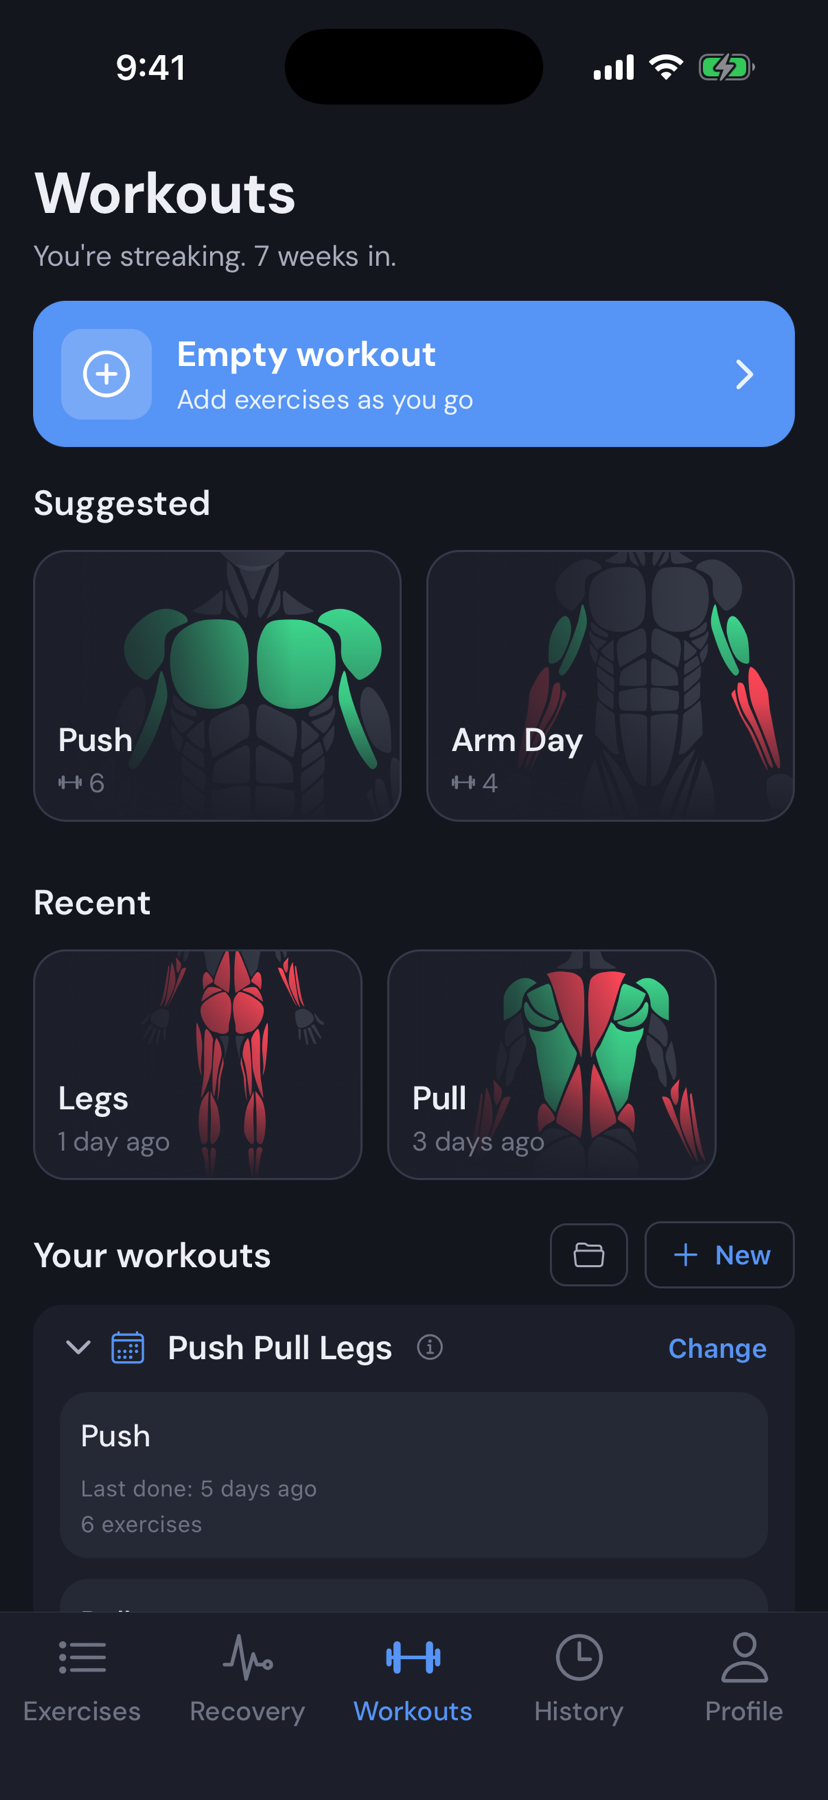
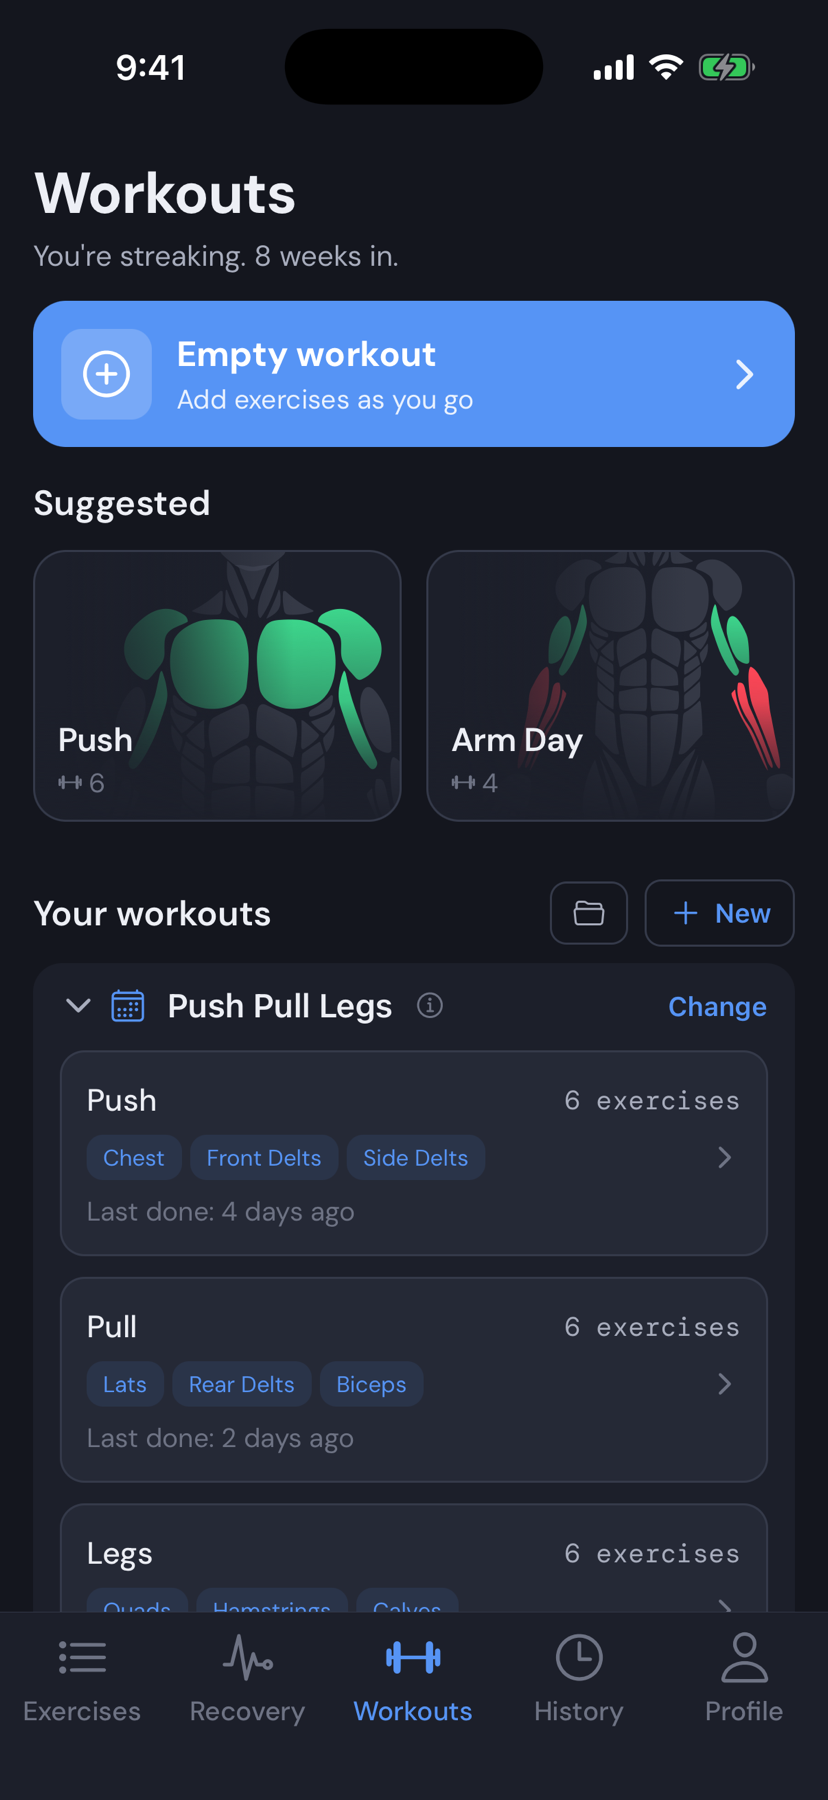
MUS-173: retake landing screenshots and sync the FAQ with the app
Re-shot all six landing screens (Workouts, active workout, program,
Recovery, Exercises, History) in light and dark from a Release build of
current main with a seven-week demo log, so the site shows the new
Workouts tab (no Recent row, muscle pills, Last done).

FAQ and landing copy audited against docs/features:
- Start a workout: Suggested or Your workouts; the Recent row is gone
- Programs: new installs start on Strong Lifts 5x5, not none
- Rest timer: the default rest is set in Profile > Settings > Default
  rest, and the countdown runs on the set's rest row
- History: edit a past workout and share it as an image

Also drops stale "Recent" mentions from Workouts tab comments and a
test name.

diff --git a/apps/landing/app/data/faq.ts b/apps/landing/app/data/faq.ts
@@ -48,26 +48,26 @@ export const FAQ_ITEMS: FaqItem[] = [
     question: 'How do I start a workout?',
     paragraphs: ['Open the Workouts tab, then:'],
     steps: [
-      'Tap a Suggested or Recent workout, or one under Your workouts: your own templates and the workouts of the program you follow.',
+      'Tap a Suggested workout, or one under Your workouts: your own templates and the workouts of the program you follow.',
       'Check the exercises and what you lifted last time, then tap Start workout.',
       'Or tap Empty workout to start with no exercises and add them as you go.',
     ],
     aside:
       'Only one workout runs at a time. If you leave it, tap Resume workout above the tabs to get back to it.',
     answerText:
-      'Open the Workouts tab and tap a Suggested or Recent workout, or one under Your workouts (your templates and your program’s workouts). Check the preview and tap Start workout. You can also start an empty workout. Only one workout runs at a time.',
+      'Open the Workouts tab and tap a Suggested workout, or one under Your workouts (your templates and your program’s workouts). Check the preview and tap Start workout. You can also start an empty workout. Only one workout runs at a time.',
   },
   {
     id: 'programs',
     question: 'How do programs work?',
     paragraphs: [
-      'MuscleOS has four programs: Push Pull Legs, Upper/Lower, Strong Lifts 5×5, and PHUL. You follow one at a time, or none. New installs start with none.',
+      'MuscleOS has four programs: Push Pull Legs, Upper/Lower, Strong Lifts 5×5, and PHUL. You follow one at a time, or none. New installs start on Strong Lifts 5×5.',
       'Tap a program to see every workout, its exercises and sets, and the muscles it trains. Add to your workouts puts its workouts next to your own templates on the Workouts tab, and Suggested picks from both.',
     ],
     aside:
       'Switching or removing a program never touches your own templates or your history. Change it any time from Change beside the program’s name.',
     answerText:
-      'Pick one of four programs (Push Pull Legs, Upper/Lower, Strong Lifts 5×5, PHUL) or none. Its workouts join your own templates on the Workouts tab. You can switch or remove it any time; your templates and history stay.',
+      'Pick one of four programs (Push Pull Legs, Upper/Lower, Strong Lifts 5×5, PHUL) or none; new installs start on Strong Lifts 5×5. Its workouts join your own templates on the Workouts tab. You can switch or remove it any time; your templates and history stay.',
   },
   {
     id: 'log-sets',
@@ -86,12 +86,12 @@ export const FAQ_ITEMS: FaqItem[] = [
     id: 'rest-timer',
     question: 'How does the rest timer work?',
     paragraphs: [
-      'Completing a working set starts a 2:00 rest. Tap the timer at the top of the screen to add or remove 30 seconds or skip it. The rest you actually took is shown under the set number.',
-      'To change the rest for an exercise, tap the three dots beside its name and choose Update rest timers. Each exercise has a work-set rest and a warm-up rest, from 0:00 to 15:00. Warm-ups don’t start a timer unless you set one.',
+      'Completing a working set starts your default rest, 2:00 unless you change it, counting down on the line under that set. Tap the countdown, or the timer icon at the top of the screen, to add or remove 30 seconds or skip it. Once you’re done, that line shows the rest you actually took.',
+      'To change the default for every exercise, go to Profile → Settings → Default rest; 0:00 turns the timer off. To change it for one exercise, tap the three dots beside its name and choose Update rest timers. Each exercise has a work-set rest and a warm-up rest, from 0:00 to 15:00. Warm-ups don’t start a timer unless you set one.',
       'When the rest ends you get a notification, even if the app is in the background.',
     ],
     answerText:
-      'Completing a working set starts a 2:00 rest you can extend, shorten, or skip. Use Update rest timers in the exercise menu to set work-set and warm-up rests from 0:00 to 15:00. A notification tells you when rest is over.',
+      'Completing a working set starts your default rest (2:00 unless you change it), which you can extend, shorten, or skip. Change the default in Profile → Settings → Default rest, or use Update rest timers in the exercise menu to set one exercise’s work-set and warm-up rests from 0:00 to 15:00. A notification tells you when rest is over.',
   },
   {
     id: 'edit-exercises',
@@ -160,11 +160,11 @@ export const FAQ_ITEMS: FaqItem[] = [
     id: 'history',
     question: 'Where can I see past workouts?',
     paragraphs: [
-      'Open the History tab. Workouts are grouped by week. Each one shows its date, duration, total volume, and how the volume compares with the last time you did that workout; tap it to see every completed set. Tap the trash icon to delete one; recovery and your previous values update to match.',
+      'Open the History tab. Workouts are grouped by week. Each one shows its date, duration, total volume, and how the volume compares with the last time you did that workout; tap it to see every completed set. Tap the pencil to fix a mistyped set, the share icon to share it as an image, or the trash icon to delete it; recovery and your previous values update to match.',
       'Workouts where you set a personal record are marked PR. The trophy button opens personal records (estimated one-rep max for each exercise, with progression charts) and the calendar button opens a monthly view.',
     ],
     answerText:
-      'Open the History tab to see your workouts grouped by week, with each one’s date, duration, volume, and change from last time. Tap a workout to see its sets, or the trash icon to delete it. The trophy button shows personal records and progression charts, and the calendar button a monthly view.',
+      'Open the History tab to see your workouts grouped by week, with each one’s date, duration, volume, and change from last time. Tap a workout to see its sets, the pencil to edit them, or the trash icon to delete it. The trophy button shows personal records and progression charts, and the calendar button a monthly view.',
   },
   {
     id: 'exercises',

diff --git a/apps/mobile/app/(tabs)/index.tsx b/apps/mobile/app/(tabs)/index.tsx
@@ -176,7 +176,7 @@ export default function WorkoutsScreen() {
     [getExercise]
   );
 
-  /** Suggested and Recent card art: each template's muscles, coloured by recovery state. */
+  /** Suggested card art: each template's muscles, coloured by recovery state. */
   const templateArt = useMemo(() => {
     const active = activeRecovery();
     const recovering = new Set(active.map((r) => r.muscleId));
@@ -197,7 +197,7 @@ export default function WorkoutsScreen() {
     // recoveryItems changes whenever activeRecovery() would return something new.
   }, [recoveryItems, activeRecovery, getExercise]);
 
-  /** Suggested and Recent both draw only from Your workouts: the chosen program plus your customs. */
+  /** Suggested draws only from Your workouts: the chosen program plus your customs. */
   const yourWorkouts = useMemo(
     () => yourWorkoutTemplates({ userTemplates, activeProgramId }),
     [userTemplates, activeProgramId]

diff --git a/apps/landing/app/components/LandingPage.tsx b/apps/landing/app/components/LandingPage.tsx
@@ -77,7 +77,7 @@ const FEATURES = [
     id: 'history',
     label: 'History',
     title: 'Review past workouts',
-    body: 'Each saved workout shows its duration, volume, exercises, and sets, with personal records, progression charts, and a monthly calendar.',
+    body: 'Each saved workout shows its duration, volume, exercises, and sets, with personal records, progression charts, and a monthly calendar. Fix a mistyped set or share a workout as an image.',
     points: [
       'Every session with its sets',
       'JSON export anytime',

diff --git a/apps/mobile/src/test/ui/templates/home.test.tsx b/apps/mobile/src/test/ui/templates/home.test.tsx
@@ -388,7 +388,7 @@ describe('starting', () => {
     expect(searchParams()).toMatchObject({ templateId: 'tpl_c' });
   });
 
-  it('Suggested and Recent include custom templates', async () => {
+  it('Suggested includes custom templates', async () => {
     await seed({
       templates: [customTemplate({ id: 'tpl_c', name: 'Chest day' })],
       sessions: [completedSession('tpl_c', NOW - 3 * DAY)],
